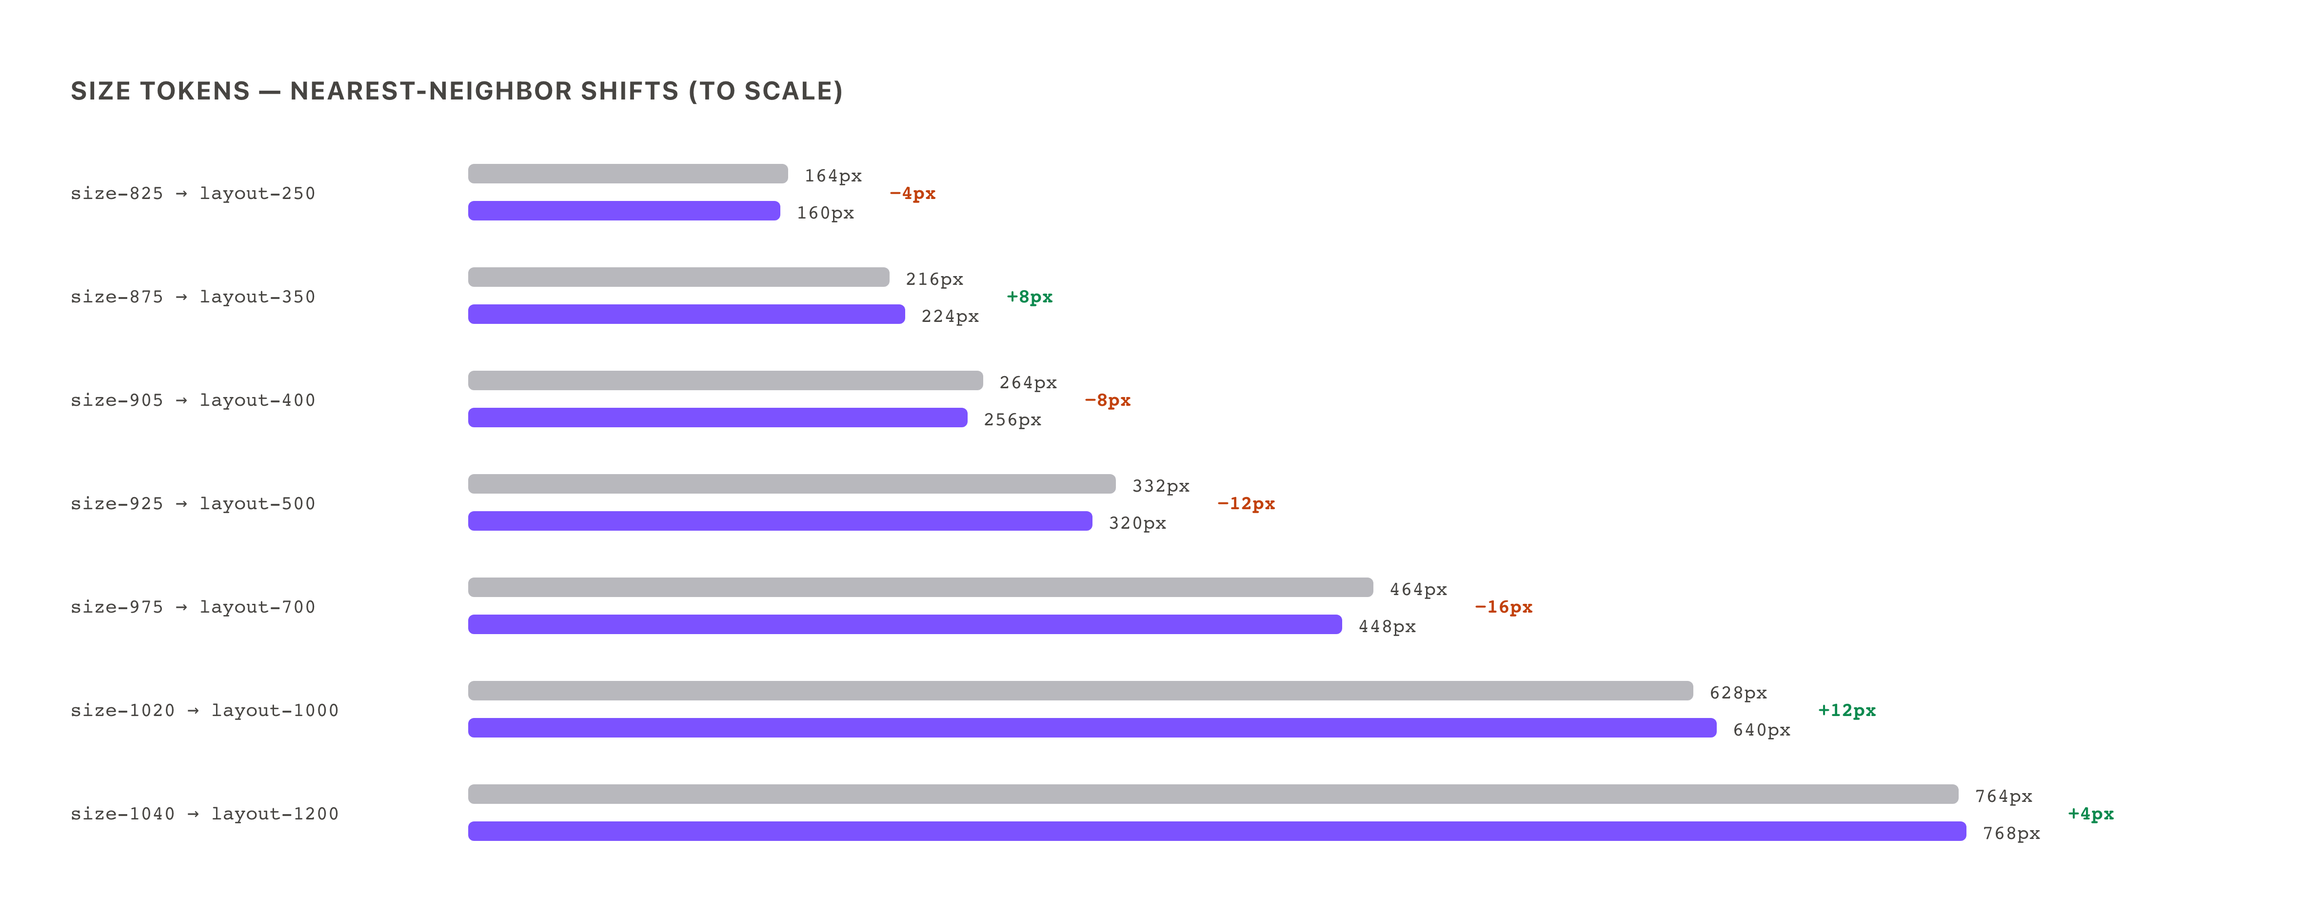
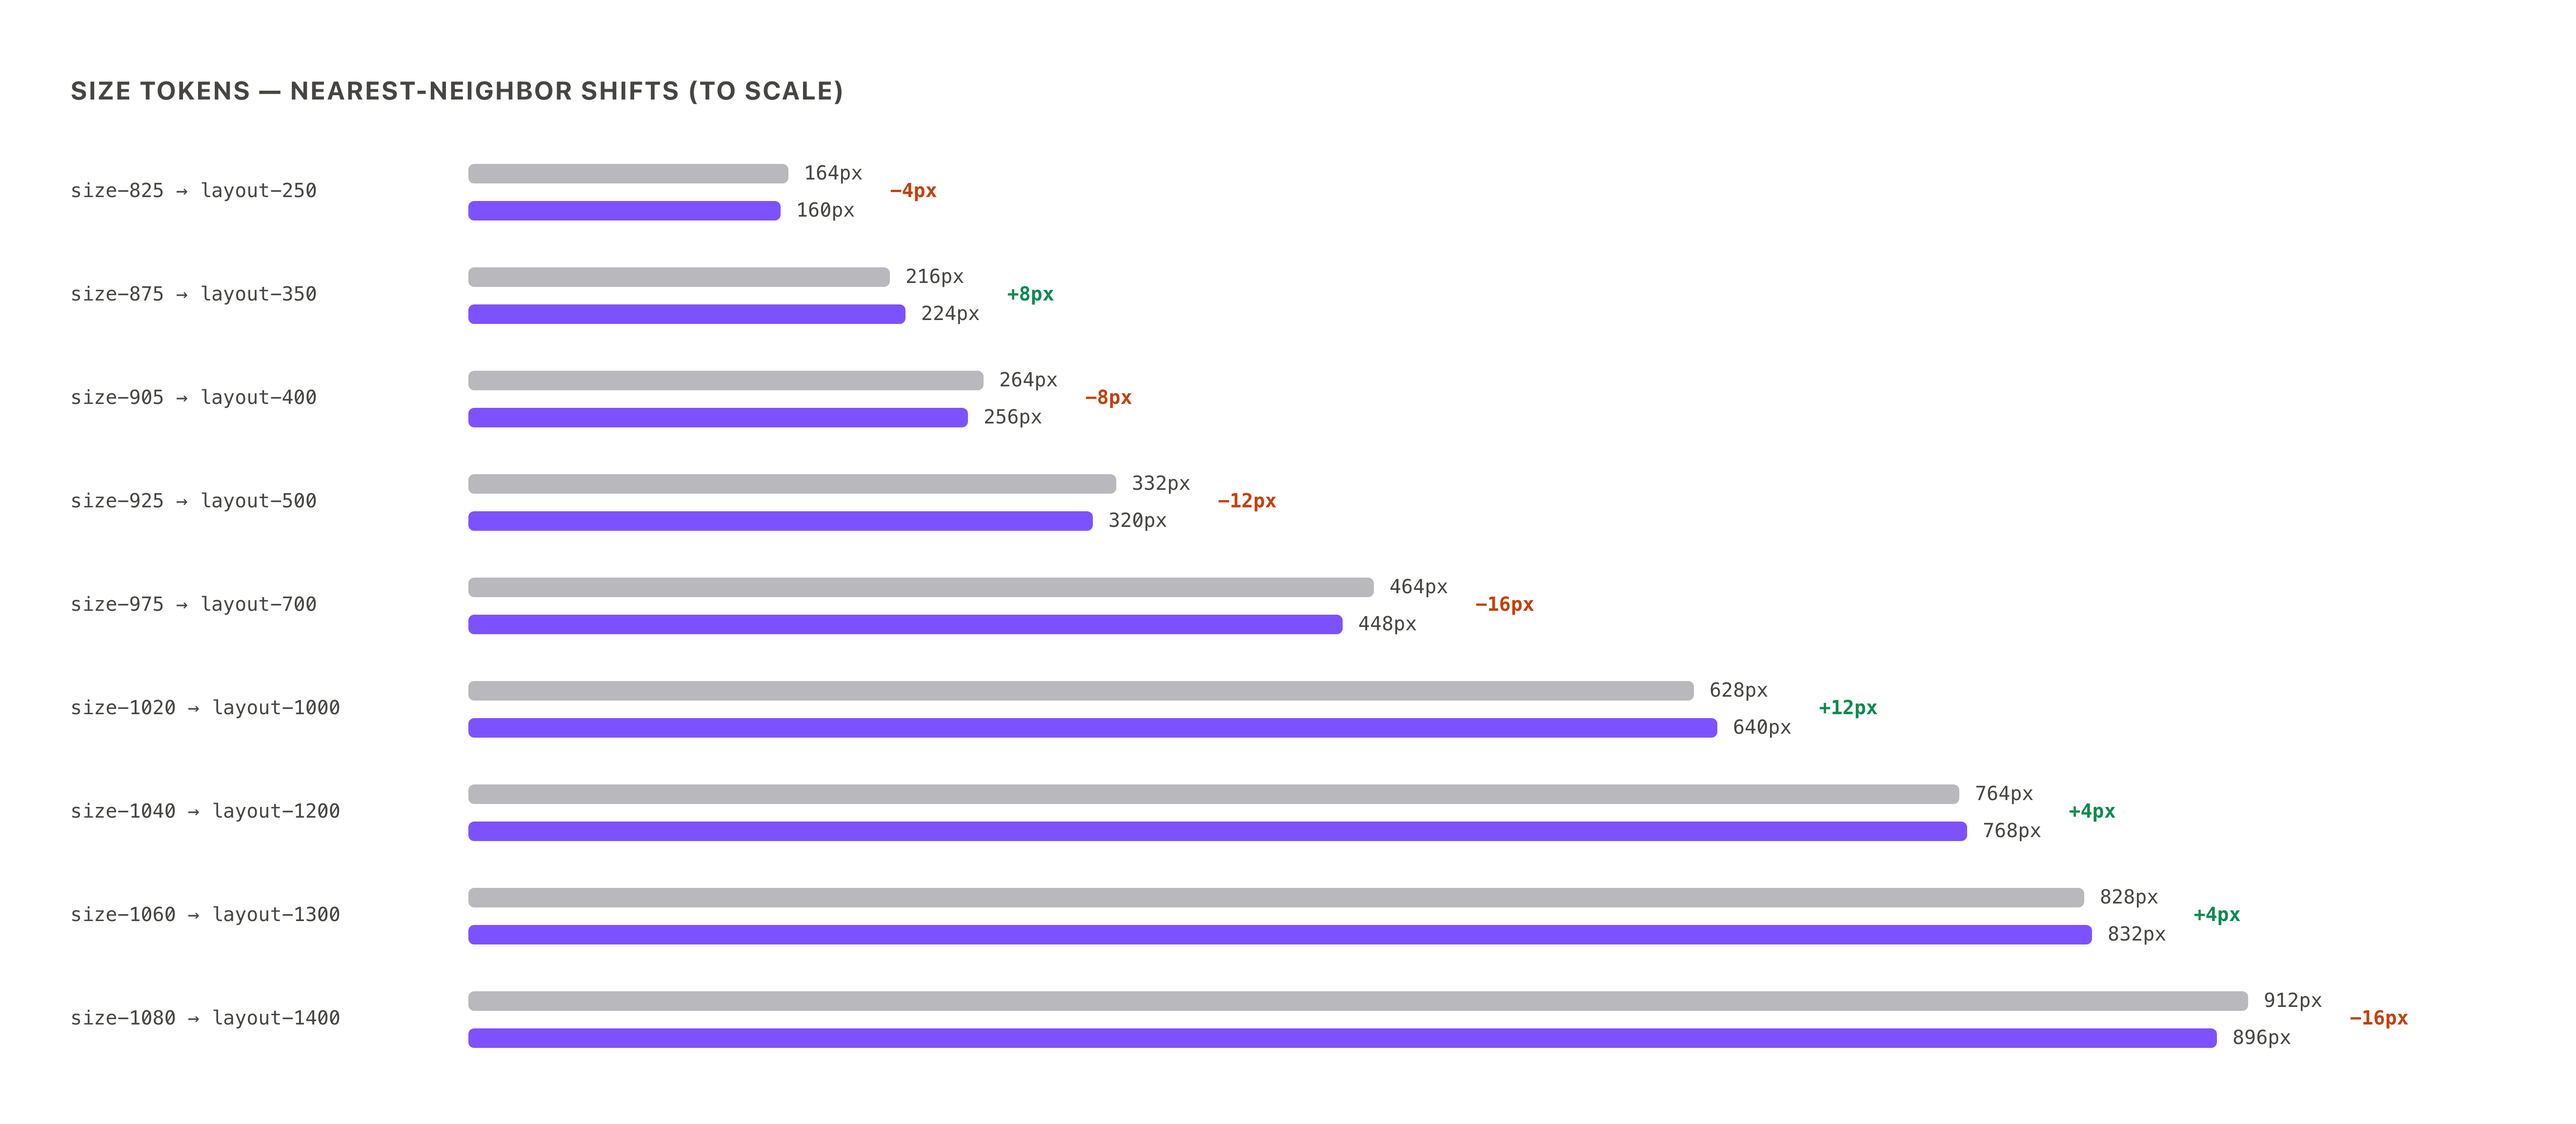
fix(documentation): DLT-3469 include all nine size-token mappings in the infographic
Codex review on #1358: the infographic stopped at size-1040, omitting
size-1060 -> layout-1300 (+4px) and size-1080 -> layout-1400 (-16px)
while the prose says nine tokens shift. Both rows added from the
layout-and-spacing guide table; scene widened for the 912px bar.

diff --git a/apps/dialtone-documentation/scripts/visual-guide/scenes/token-size-shifts.vue b/apps/dialtone-documentation/scripts/visual-guide/scenes/token-size-shifts.vue
@@ -8,7 +8,7 @@
        right-edge offset is the sanctioned shift. Captured after-only. -->
   <div
     class="vg-scene"
-    style="width:1180px;"
+    style="width:1320px;"
   >
     <p class="vg-heading">
       Size tokens — nearest-neighbor shifts (to scale)
@@ -65,5 +65,7 @@ const mappings = [
   { old: '975', new: '700', oldPx: 464, newPx: 448 },
   { old: '1020', new: '1000', oldPx: 628, newPx: 640 },
   { old: '1040', new: '1200', oldPx: 764, newPx: 768 },
+  { old: '1060', new: '1300', oldPx: 828, newPx: 832 },
+  { old: '1080', new: '1400', oldPx: 912, newPx: 896 },
 ];
 </script>
